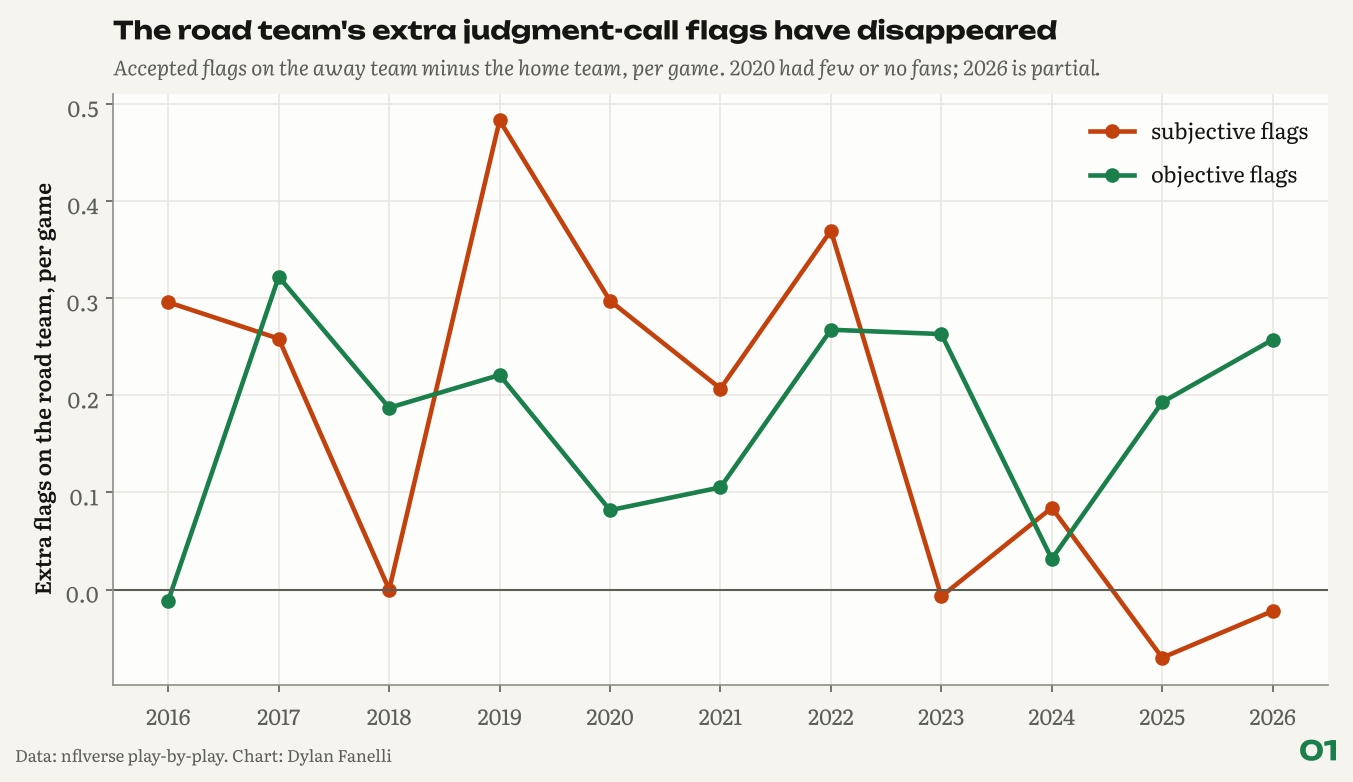
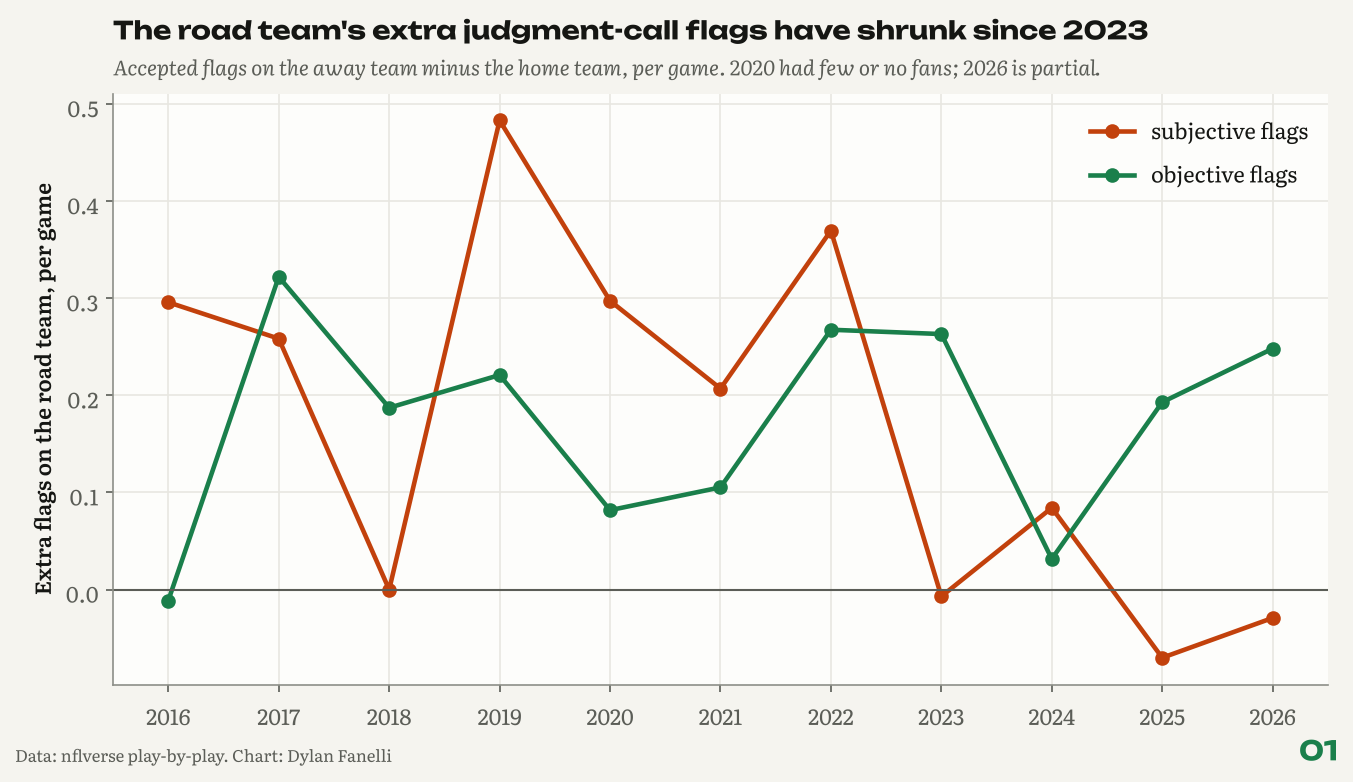
Study 01: per-snap test, close games, break year stated as chosen from the chart

Changed region(s): [[0.6208, 0.0, 0.8692, 0.0614], [0.8692, 0.4297, 0.9623, 0.5217], [0.8692, 0.7673, 0.9623, 0.8286]]

diff --git a/reports/01-flag-audit/README.md b/reports/01-flag-audit/README.md
@@ -7,8 +7,8 @@
 
 **TL;DR**
 
-- Road teams drew 0.27 more judgment-call flags a game than home teams in 2016-22; since 2023 the gap has averaged -0.00. What remains is a small pre-snap gap (neutral zone infractions, delay of game), not judgment calls.
-- Referee crews have a modest, real style (year-to-year r = 0.24); a team's flag luck does not carry over (r = 0.08).
+- Road teams drew 0.27 more judgment-call flags a game than home teams in 2016-22; since 2023 the gap has averaged 0.00. The drop is real per snap (95% interval 0.02 to 0.29 per 100 snaps) but not yet in close games only, and I picked 2023 from the chart.
+- Referee crews have a modest style (year-to-year r = 0.24, 95% interval 0.03 to 0.41); a team's flag luck does not carry over (r = 0.08).
 - Mahomes ranks #20 of 42 QBs in roughing flags drawn, right at the league rate.
 
 <p align="center"><img src="home_edge.png" width="720" alt="Road team's extra flags per game, by flag type and season."></p>
@@ -19,16 +19,18 @@
 | Measure | Value |
 |---|---|
 | Road team's extra judgment-call flags per game, 2016-22 | **0.27** |
-| Same, 2023-26 | **-0.00** |
-| Crew flags per game, year-to-year r | **0.24** |
+| Same, 2023-26 | **0.00** |
+| Drop in the road gap per 100 snaps, all snaps (95% interval) | **0.16 (0.02 to 0.29)** |
+| Same, close game states only | **0.12 (-0.06 to 0.29)** |
+| Crew flags per game, year-to-year r | **0.24 (0.03 to 0.41)** |
 | Team net flags, odd vs even weeks r | **0.08** |
 | Mahomes' rank in roughing flags drawn | **#20 of 42** |
 | Flags that swung win probability 10+ points, per season | **84** |
 
 ## Why it matters for a club
 
-- **Coaching and game prep:** the road penalty gap that is left is pre-snap communication (neutral zone infractions, delay of game), which is coachable with silent-count and cadence work in road weeks.
-- **Weekly opponent and crew prep:** crews have a modest, repeatable style (see key numbers), worth one line in the game-plan packet, not a strategy.
+- **Coaching and game prep:** the road gap that is clearly left is in neutral zone infractions and delay of game. False starts split evenly, so this data does not show that a silent count is the fix. It shows where to look on road film.
+- **Weekly opponent and crew prep:** crews have a modest style with a wide interval (see key numbers), worth one line in the game-plan packet, not a strategy.
 - **Expectations:** a team's flag luck does not carry over, so a bad flag differential is not a reason to change personnel by itself.
 
 ## The question
@@ -39,21 +41,21 @@
 
 ## Data
 
-nflverse play-by-play and officials, 2016-2026 (2,897 games, 35,317 accepted flags). Declined and offsetting flags removed.
+nflverse play-by-play and officials, 2016-2026 (2,898 games, 35,327 accepted flags). Declined and offsetting flags removed.
 
 ## Results
 
-### 1. The road team's extra judgment-call flags are gone.
+### 1. The road team's extra judgment-call flags have shrunk since 2023, and the data cannot yet say they are gone.
 
-In 2016-22, road teams drew 0.27 more subjective flags per game than home teams (holding, pass interference, roughing). Since 2023 the gap is -0.00.
+In 2016-22, road teams drew 0.27 more subjective flags per game than home teams (holding, pass interference, roughing). Since 2023 the gap is 0.00. Per 100 snaps that is 0.18 (95% interval 0.09 to 0.26) before and 0.02 (95% interval -0.09 to 0.13) since. The drop is 0.16 (95% interval 0.02 to 0.29). Two cautions. I picked 2023 after looking at the chart, and it gives the biggest drop of the 8 break years I could have picked. And in close game states only (score within 8), the drop is 0.12 (95% interval -0.06 to 0.29), which includes zero.
 
-### 2. The road gap that remains is noise and communication, not referees' judgment.
+### 2. The road gap that is clearly still there is in rule-book flags.
 
-Road teams still take about 0.18 extra rule-book flags a game. Neutral zone infractions go against the road defense 60% of the time, and delay of game against the road offense 56%. False starts, the flag fans blame on crowd noise, split almost evenly (49.6% on the road team).
+Road teams still take about 0.17 extra rule-book flags a game. Neutral zone infractions go against the road defense 60% of the time, and delay of game against the road offense 56%. False starts, the flag fans blame on crowd noise, split almost evenly (49.6% on the road team). Crowd noise is one reading of the first two. This data cannot test it.
 
 ### 3. Referee crews have a real, modest style.
 
-A crew's flags per game this season predicts next season at r = 0.24 (141 back-to-back crew seasons). In 2025, Alex Moore's crew averaged 16.0 flags a game and Brad Allen's averaged 9.9.
+A crew's flags per game this season predicts next season at r = 0.24 (95% interval 0.03 to 0.41, 141 back-to-back crew seasons, crews resampled). In 2025, Alex Moore's crew averaged 16.0 flags a game and Brad Allen's averaged 9.9.
 
 <p align="center"><img src="crew_stability.png" width="720" alt="A crew's flags per game in one season vs the next."></p>
 <p align="center"><sub>A crew's flags per game in one season vs the next.</sub></p>
@@ -64,19 +66,20 @@ Within a season, a team's net subjective flags (drawn minus committed) in odd we
 
 ### 5. Mahomes is not the roughing-flag king.
 
-Among 42 QBs with 1,500+ dropbacks since 2018, he ranks #20 (by shrunk rate) at 0.22 roughing flags per 100 dropbacks, about the league rate of 0.23. The top of the list is J.Goff (0.35 raw), A.Dalton (0.45) and M.Ryan (0.39). Only J.Goff and A.Dalton sit clearly above the league rate (95% interval); everyone else overlaps it.
+Among 42 QBs with 1,500+ dropbacks since 2018, he ranks #20 (by shrunk rate) at 0.22 roughing flags per 100 dropbacks, about the league rate of 0.23. The top of the list is J.Goff (0.35 raw), A.Dalton (0.45) and M.Ryan (0.39). J.Goff and A.Dalton have a 95% interval above the league rate. With 42 quarterbacks, about 1.1 would by chance alone. None of them stays above it once the test is corrected for checking 42 quarterbacks at once.
 
 <p align="center"><img src="qb_roughing.png" width="720" alt="Roughing-the-passer flags drawn per 100 dropbacks, shrunk toward the league rate, with 95% intervals."></p>
 <p align="center"><sub>Roughing-the-passer flags drawn per 100 dropbacks, shrunk toward the league rate, with 95% intervals.</sub></p>
 
 ### 6. Big calls are real but random.
 
-926 accepted flags (891 in the regular season) moved win probability by 10+ points, about 84 per full regular season. Pass interference leads. A team's net big calls this year predicts next year at r = 0.04: no team is owed them.
+928 accepted flags (893 in the regular season) moved win probability by 10+ points, about 84 per full regular season. Pass interference leads. A team's net big calls this year predicts next year at r = 0.04: no team is owed them.
 
 ## Method
 
 - **Objective vs subjective:** objective flags are facts at the snap (alignment, motion, clock); subjective flags need a judgment about contact or intent. The lists are in [`nflan/penalties.py`](../../nflan/penalties.py).
 - **Crews:** the referee's name stands for the crew (officials table, position = Referee). Regular-season crews with 10+ games.
+- **Per play and close games:** road minus home subjective flags per 100 scrimmage snaps, for all snaps and for snaps with the score within 8. 95% intervals resample games 2,000 times.
 - **Split-half reliability:** for each team-season, the odd-week mean vs the even-week mean.
 - **Roughing:** flags drawn per dropback, with Wilson 95% intervals and empirical-Bayes shrinkage so small samples are not ranked on noise.
 
@@ -88,12 +91,15 @@ Among 42 QBs with 1,500+ dropbacks since 2018, he ranks #20 (by shrunk rate) at 
 ## Validation
 
 - Stability is tested before anything is called a skill: crews 0.24, team flags committed 0.29, drawn 0.18, net 0.08.
-- Quarterback rates are shrunk and shown with Wilson 95% intervals, so small samples are not ranked on noise.
-- Unit tests check the flag categories and that the published stability numbers stay in sane ranges (`tests/`).
+- Quarterback rates are shrunk and shown with Wilson 95% intervals. 42 quarterbacks are tested at once, so about 1.1 would clear the league rate by chance; 0 clear it after a Bonferroni correction.
+- The home-edge drop is reported per snap, in close game states, without 2020, and for every break year, with game-bootstrap intervals.
+- Unit tests check the flag categories on a small made-up play-by-play table (`tests/`).
 
 ## Limitations
 
 - Play-by-play has no tracking data, so this cannot judge whether a single flag was correct.
+- The 2023 break was chosen from the chart, not set in advance. Four seasons after it, one of them partial, is a short record.
+- 42 quarterbacks are tested against the league roughing rate at once, so about 1.1 would sit above it by chance alone.
 - "Big call" uses nflfastR's WPA, which measures the flag plus the play it wiped out.
 
 ## Next steps
@@ -114,7 +120,7 @@ Code: [`projects/flag_audit.py`](../../projects/flag_audit.py)
 | File | What it holds |
 |---|---|
 | [`home_edge_by_season.csv`](home_edge_by_season.csv) | Road minus home flags per game by season and flag type |
-| [`home_edge_by_era.csv`](home_edge_by_era.csv) | The same by era (2016-22 vs 2023 on) |
+| [`home_edge_by_era.csv`](home_edge_by_era.csv) | The same by era (2016-22 vs 2023 on; the break year was chosen from the chart) |
 | [`objective_road_skew_by_type.csv`](objective_road_skew_by_type.csv) | Share of each rule-book flag that goes against the road team |
 | [`crew_flags_per_game.csv`](crew_flags_per_game.csv) | Flags per game by referee crew and season |
 | [`qb_roughing_drawn.csv`](qb_roughing_drawn.csv) | Roughing flags drawn per QB with shrunk rates and intervals |
